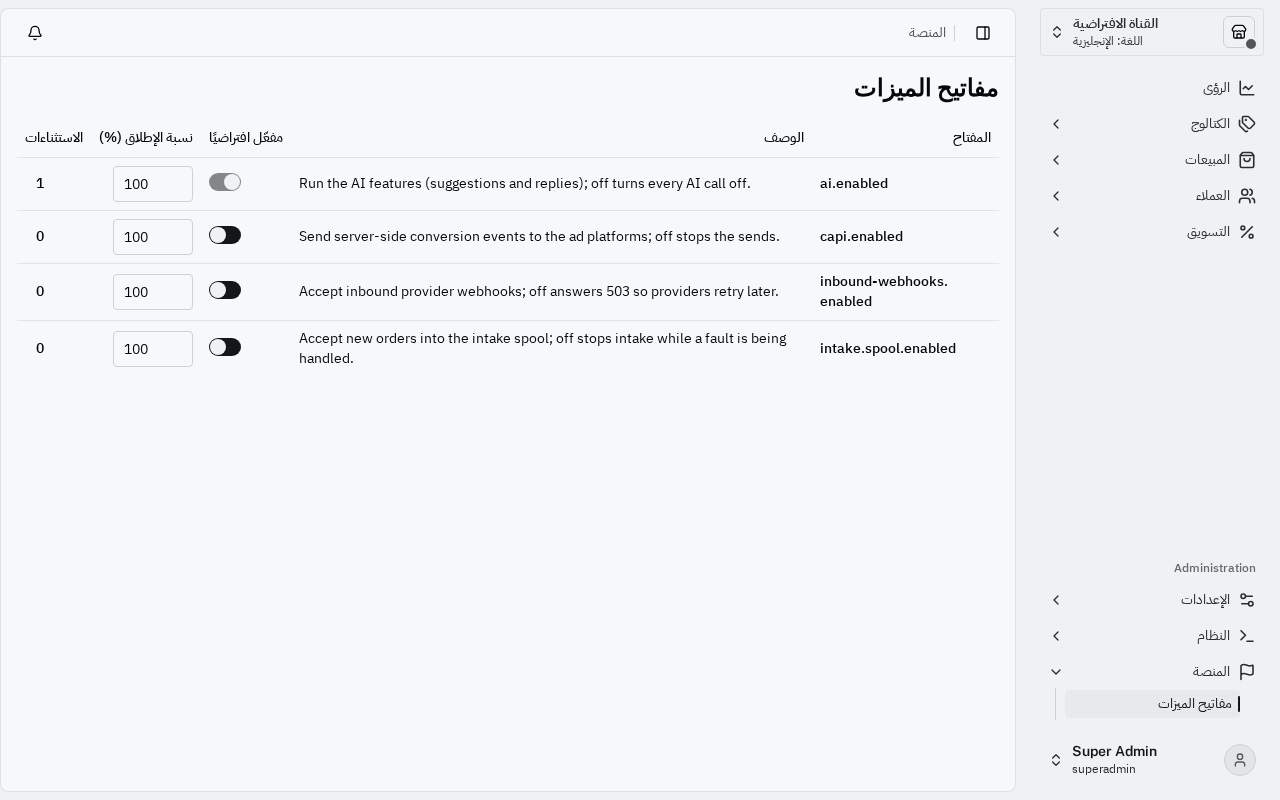
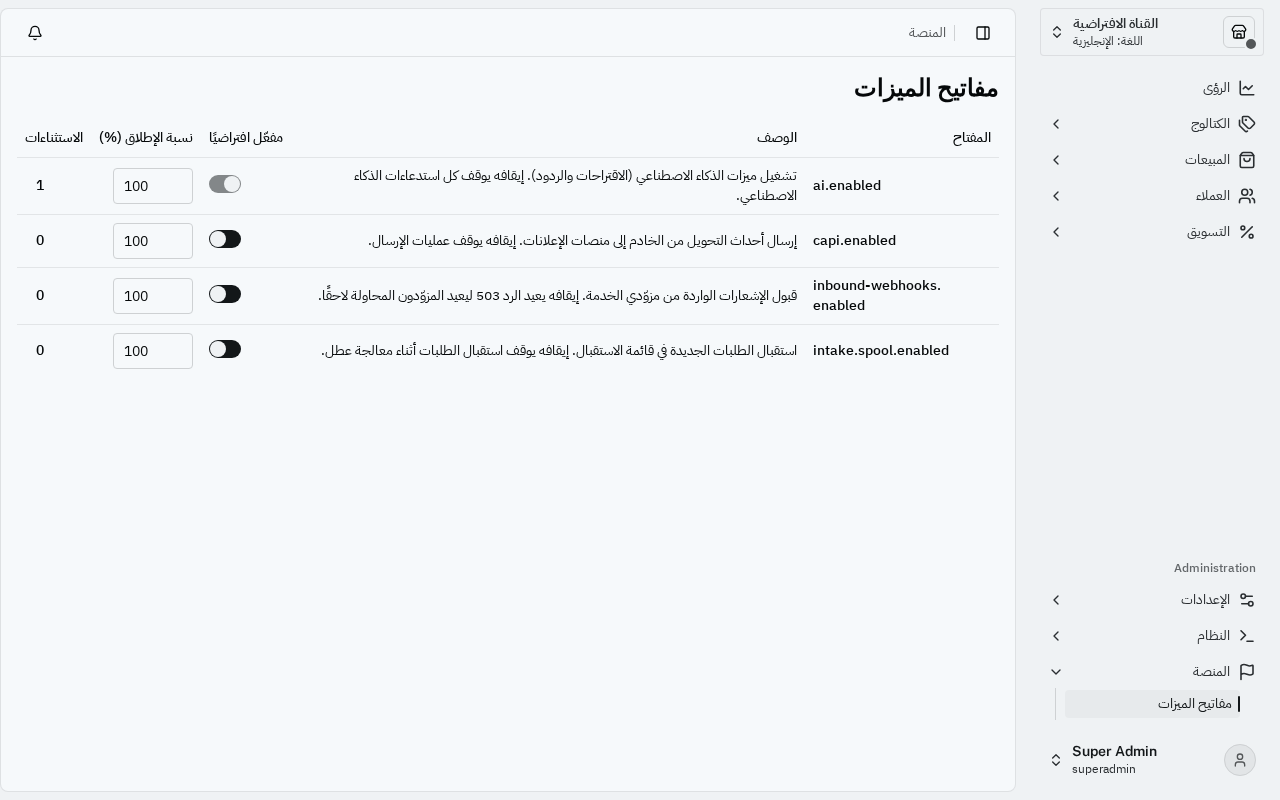
docs(evidence): regenerate P1.S6 with Arabic flag descriptions

diff --git a/docs/evidence/P1.S6/api/internal-guard.md b/docs/evidence/P1.S6/api/internal-guard.md
@@ -584,7 +584,7 @@ HTTP/1.1 200 OK
 cache-control: private, no-cache, no-store, max-age=0, must-revalidate
 content-type: text/html; charset=utf-8
 
-<!DOCTYPE html><html data-dpl-id="f8d7d93" lang="ar" dir="rtl"><head><meta charSet="utf-8"/><meta name="viewport" content="width=device-width, initial-scale=1"/><link rel="stylesheet" href="/_next/static/chunks/2o87kb2q9n4yc.css?dpl=f8d7d93" data-precedence="next"/><link rel="preload" as="script" fetchPriority="low" href="/_next/static/chunks/1pvie6fduep3q.js?dpl=f8d7d93"/><script src="/_next/static/chunks/3_xnpfkoee8gs.js?dpl=f8d7d93" async=""></script><script src="/_next/static/chunks/1ek1o9-2xh69l.js?dpl=f8d7d93" async=""></script><script src="/_next/static/chunks/turbopack-2u1d16houkiyo.js?dpl=f8d7d93" async=""></script><script src="/_next/static/chunks/0whvkrb958y89.js?dpl=f8d7d93" async=""></script><script src="/_next/static/chunks/3et6rqk0qh-ry.js?dpl=f8d7d93" async=""></script><meta name="next-size-adjust" content=""/><script src="/_next/static/chunks/0cz1d0mv5g_q7.js?dpl=f8d7d93" noModule=""></script></head><body><div hidden=""><!--$--><!--/$--></div><!--&--><!--&--><!--&--><!--&--><main class="stub-page"><!--$?--><template id="B:0"></template><!--/$--></main><!--$--><!--/$--><!--/&--><!--/&--><!--/&--><!--/&--><script>requestAnimationFrame(function(){$RT=performance.now()});</script><script src="/_next/static/chunks/1pvie6fduep3q.js?dpl=f8d7d93" id="_R_" async=""></script><script>(globalThis["TURBOPACK"] || (globalThis["TURBOPACK"] = [])).push({"otherChunks":["static/chunks/1pvie6fduep3q.js","static/chunks/3_xnpfkoee8gs.js","static/chunks/1ek1o9-2xh69l.js"],"runtimeModuleIds":[9220]});</script><script>(self.__next_f=self.__next_f||[]).push([0])</script><script>self.__next_f.push([1,"1:\"$Sreact.fragment\"\n2:\"/_next/static/chunks/0whvkrb958y89.js?dpl=f8d7d93\"\n3:I[95879,[\"$2\"],\"default\"]\n4:I[66344,[\"$2\"],\"default\"]\nb:\"$Sreact.suspense\"\nd:I[96527,[\"$2\"],\"OutletBoundary\"]\n10:\"ViewportBoundary\"\n11:I[96527,[\"$2\"],\"$10\"]\n13:\"MetadataBoundary\"\n14:I[96527,[\"$2\"],\"$13\"]\n17:I[1362,[\"$2\"],\"default\",1]\n:HL[\"/_next/static/chunks/2o87kb2q9n4yc.css?dpl=f8d7d93\",\"style\"]\n5:X\n7:X\nf:X\na:[[\"children\",{\"s\":\"__PAGE__\",\"h\":16546,\"d\":{\"r\":[\"$\",\"$1\",\"c\",{\"children\":[[\"$\",\"main\",null,{\"className\":\"stub-page\",\"children\":[\"$\",\"$b\",null,{\"fallback\":null,\"children\":\"$Lc\"}]}],[[\"$\",\"script\",\"script-0\",{\"src\":\"/_next/static/chunks/3et6rqk0qh-ry.js?dpl=f8d7d93\",\"async\":true,\"nonce\":\"$undefined\"}]],[\"$\",\"$Ld\",null,{\"children\":[\"$\",\"$b\",null,{\"name\":\"Next.MetadataOutlet\",\"children\":\"$@e\"}]}]]}],\"p\":false,\"v\":\"$f\"}}]]\n9:[[\"children\",{\"s\":{\"n\":\"locale\",\"t\":\"d\",\"k\":\"ar\",\"s\":[]},\"h\":16482,\"d\":{\"r\":[\"$\",\"$1\",\"c\",{\"children\":[null,[\"$\",\"$L3\",null,{\"parallelRouterKey\":\"children\",\"error\":\"$undefined\",\"errorStyles\":\"$undefined\",\"errorScripts\":\"$undefined\",\"template\":[\"$\",\"$L4\",null,{}],\"templateStyles\":\"$undefined\",\"templateScripts\":\"$undefined\",\"notFound\":\"$undefined\",\"forbidden\":\"$undefined\",\"unauthorized\":\"$undefined\"}]]}],\"p\":false,\"v\":\"$7\"},\"c\":\"$Qa\"}]]\n8:[[\"children\",{\"s\":{\"n\":\"storeId\",\"t\":\"d\",\"k\":\"<STORE_DEMO>\",\"s\":[]},\"h\":16482,\"d\":{\"r\":[\"$\",\"$1\",\"c\",{\"children\":[null,[\"$\",\"$L3\",null,{\"parallelRouterKey\":\"children\",\"error\":\"$undefined\",\"errorStyles\":\"$undefined\",\"errorScripts\":\"$undefined\",\"template\":[\"$\",\"$L4\",null,{}],\"templateStyles\":\"$undefined\",\"templateScripts\":\"$undefined\",\"notFound\":\"$undefined\",\"forbidden\":\"$undefined\",\"unauthorized\":\"$undefined\"}]]}],\"p\":false,\"v\":\"$7\"},\"c\":\"$Q9\"}]]\n6:[[\"children\",{\"s\":\"%5Ft\",\"h\":16482,\"d\":{\"r\":[\"$\",\"$1\",\"c\",{\"children\":[null,[\"$\",\"$L3\",null,{\"parallelRouterKey\":\"children\",\"error\":\"$undefined\",\"errorStyles\":\"$undefined\",\"errorScripts\":\"$undefined\",\"template\":[\"$\",\"$L4\",null,{}],\"templateStyles\":\"$undefined\",\"templateScripts\":\"$undefined\",\"notFound\":\"$undefined\",\"forbidden\":\"$undefined\",\"unauthorized\":\"$undefined\"}]]}],\"p\":false,\"v\":\"$7\"},\"c\":\"$Q8\"}]]\n16:X\n18:X\n19:X\n1c:R\n0:{\"P\":null,\"c\":[\"\",\"\"],\"q\":\"\",\"i\":false,\"t\":{\"t\":{\"s\":\"\",\"h\":16466,\"d\":{\"r\":[\"$\",\"$1\",\"c\",{\"children\":[[[\"$\",\"link\",\"0\",{\"rel\":\"stylesheet\",\"href\":\"/_next/static/chunks/2o87kb2q9n4yc.css?dpl=f8d7d93\",\"precedence\":\"next\",\"crossOrigin\":\"$undefined\",\"nonce\":\"$undefined\"}],[\"$\",\"script\",\"script-0\",{\"src\":\"/_next/static/chunks/0whvkrb958y89.js?dpl=f8d7d93\",\"async\":true,\"nonce\":\"$undefined\"}]],[\"$\",\"html\",null,{\"lang\":\"ar\",\"dir\":\"rtl\",\"children\":[\"$\",\"body\",null,{\"children\":[\"$\",\"$L3\",null,{\"parallelRouterKey\":\"children\",\"error\":\"$undefined\",\"errorStyles\":\"$undefined\",\"errorScripts\":\"$undefined\",\"template\":[\"$\",\"$L4\",null,{}],\"templateStyles\":\"$undefined\",\"templateScripts\":\"$undefined\",\"notFound\":[[\"$\",\"main\",null,{\"data-testid\":\"not-found\",\"className\":\"stub-page\",\"children\":[\"$\",\"div\",null,{\"children\":[[\"$\",\"h1\",\"ar\",{\"lang\":\"ar\",\"dir\":\"rtl\",\"children\":\"الصفحة غير موجودة\"}],[\"$\",\"h1\",\"fr\",{\"lang\":\"fr\",\"dir\":\"ltr\",\"children\":\"Page introuvable\"}],[\"$\",\"h1\",\"en\",{\"lang\":\"en\",\"dir\":\"ltr\",\"children\":\"Page not found\"}]]}]}],[]],\"forbidden\":\"$undefined\",\"unauthorized\":\"$undefined\"}]}]}]]}],\"p\":false,\"v\":\"$5\"},\"c\":\"$Q6\"},\"h\":{\"r\":[\"$\",\"$1\",\"h\",{\"children\":[null,[\"$\",\"$L11\",null,{\"children\":\"$L12\"}],[\"$\",\"$L14\",null,{\"children\":[[\"$\",\"div\",null,{\"hidden\":true,\"children\":[\"$\",\"$b\",null,{\"name\":\"Next.Metadata\",\"children\":\"$L15\"}]}],null]}],[\"$\",\"meta\",null,{\"name\":\"next-size-adjust\",\"content\":\"\"}]]}],\"p\":false,\"v\":\"$16\"}},\"m\":\"$undefined\",\"G\":[\"$17\",[[\"$\",\"link\",\"0\",{\"rel\":\"stylesheet\",\"href\":\"/_next/static/chunks/2o87kb2q9n4yc.css?dpl=f8d7d93\",\"precedence\":\"next\",\"crossOrigin\":\"$undefined\",\"nonce\":\"$undefined\"}]]],\"S\":true,\"r\":\"$18\",\"s\":\"$19\",\"a\":\"$@1a\",\"l\":\"$@1b\",\"p\":\"$1c\",\"d\":\"$undefined\"}\n7:C\n19:300\n12:[[\"$\",\"meta\",\"0\",{\"charSet\":\"utf-8\"}],[\"$\",\"meta\",\"1\",{\"name\":\"viewport\",\"content\":\"width=device-width, initial-scale=1\"}]]\ne:null\n15:[]\n19:C\n16:C\n18:C\nf:C\n5:C\n1d:\"/_next/static/chunks/3et6rqk0qh-ry.js?dpl=f8d7d93\"\n1e:\"StoreDocumentLang\"\n1f:I[73830,[\"$2\",\"$1d\"],\"$1e\"]\nc:[[\"$\",\"$L1f\",null,{\"locale\":\"ar\"}],\"$L20\"]\n1b:4038\n1a:4015\n"])</script><script>self.__next_f.push([1,"20:[\"$\",\"h1\",null,{\"data-testid\":\"store-name\",\"children\":\"Demo Store\"}]\n"])</script><script src="/_next/static/chunks/0cz1d0mv5g_q7.js?dpl=f8d7d93" noModule=""></script><div hidden id="S:0"><h1 data-testid="store-name">Demo Store</h1></div><script>$RB=[];$RV=function(a){$RT=performance.now();for(var b=0;b<a.length;b+=2){var c=a[b],e=a[b+1];null!==e.parentNode&&e.parentNode.removeChild(e);var f=c.parentNode;if(f){var g=c.previousSibling,h=0;do{if(c&&8===c.nodeType){var d=c.data;if("/$"===d||"/&"===d)if(0===h)break;else h--;else"$"!==d&&"$?"!==d&&"$~"!==d&&"$!"!==d&&"&"!==d||h++}d=c.nextSibling;f.removeChild(c);c=d}while(c);for(;e.firstChild;)f.insertBefore(e.firstChild,c);g.data="$";g._reactRetry&&requestAnimationFrame(g._reactRetry)}}a.length=0};
-$RC=function(a,b){if(b=document.getElementById(b))(a=document.getElementById(a))?(a.previousSibling.data="$~",$RB.push(a,b),2===$RB.length&&("number"!==typeof $RT?requestAnimationFrame($RV.bind(null,$RB)):(a=performance.now(),setTimeout($RV.bind(null,$RB),2300>a&&2E3<a?2300-a:$RT+300-a)))):b.parentNode.removeChild(b)};$RC("B:0","S:0")</script><script>self.__next_f.push([1,"1c:o1,#1c:o83c,2:\"$Sreact.fragment\"\n3:\"/_next/static/chunks/0whvkrb958y89.js?dpl=f8d7d93\"\n4:I[95879,[\"$3\"],\"default\"]\n5:I[66344,[\"$3\"],\"default\"]\nc:\"$Sreact.suspense\"\ne:I[96527,[\"$3\"],\"OutletBoundary\"]\n11:\"ViewportBoundary\"\n12:I[96527,[\"$3\"],\"$11\"]\n14:\"MetadataBoundary\"\n15:I[96527,[\"$3\"],\"$14\"]\n:HL[\"/_next/static/chunks/2o87kb2q9n4yc.css?dpl=f8d7d93\",\"style\"]\n1:X\n6:X\n8:X\n10:X\nb:[[\"children\",{\"s\":\"__PAGE__\",\"h\":16546,\"d\":{\"r\":[\"$\",\"$2\",\"c\",{\"children\":[[\"$\",\"main\",null,{\"className\":\"stub-page\",\"children\":[\"$\",\"$c\",null,{\"fallback\":null,\"children\":\"$Ld\"}]}],[[\"$\",\"script\",\"script-0\",{\"src\":\"/_next/static/chunks/3et6rqk0qh-ry.js?dpl=f8d7d93\",\"async\":true,\"nonce\":\"$undefined\"}]],[\"$\",\"$Le\",null,{\"children\":[\"$\",\"$c\",null,{\"name\":\"Next.MetadataOutlet\",\"children\":\"$@f\"}]}]]}],\"p\":false,\"v\":\"$10\"}}]]\na:[[\"children\",{\"s\":{\"n\":\"locale\",\"t\":\"d\",\"k\":\"ar\",\"s\":[]},\"h\":16482,\"d\":{\"r\":[\"$\",\"$2\",\"c\",{\"children\":[null,[\"$\",\"$L4\",null,{\"parallelRouterKey\":\"children\",\"error\":\"$undefined\",\"errorStyles\":\"$undefined\",\"errorScripts\":\"$undefined\",\"template\":[\"$\",\"$L5\",null,{}],\"templateStyles\":\"$undefined\",\"templateScripts\":\"$undefined\",\"notFound\":\"$undefined\",\"forbidden\":\"$undefined\",\"unauthorized\":\"$undefined\"}]]}],\"p\":false,\"v\":\"$8\"},\"c\":\"$Qb\"}]]\n9:[[\"children\",{\"s\":{\"n\":\"storeId\",\"t\":\"d\",\"k\":\"<STORE_DEMO>\",\"s\":[]},\"h\":16482,\"d\":{\"r\":[\"$\",\"$2\",\"c\",{\"children\":[null,[\"$\",\"$L4\",null,{\"parallelRouterKey\":\"children\",\"error\":\"$undefined\",\"errorStyles\":\"$undefined\",\"errorScripts\":\"$undefined\",\"template\":[\"$\",\"$L5\",null,{}],\"templateStyles\":\"$undefined\",\"templateScripts\":\"$undefined\",\"notFound\":\"$undefined\",\"forbidden\":\"$undefined\",\"unauthorized\":\"$undefined\"}]]}],\"p\":false,\"v\":\"$8\"},\"c\":\"$Qa\"}]]\n7:[[\"children\",{\"s\":\"%5Ft\",\"h\":16482,\"d\":{\"r\":[\"$\",\"$2\",\"c\",{\"children\":[null,[\"$\",\"$L4\",null,{\"parallelRouterKey\":\"children\",\"error\":\"$undefined\",\"errorStyles\":\"$undefined\",\"errorScripts\":\"$undefined\",\"template\":[\"$\",\"$L5\",null,{}],\"templateStyles\":\"$undefined\",\"templateScripts\":\"$undefined\",\"notFound\":\"$undefined\",\"forbidden\":\"$undefined\",\"unauthorized\":\"$undefined\"}]]}],\"p\":false,\"v\":\"$8\"},\"c\":\"$Q9\"}]]\n17:X\n18:X\n1c:o5b1,0:{\"q\":\"\",\"i\":false,\"S\":true,\"r\":\"$1\",\"t\":{\"t\":{\"s\":\"\",\"h\":16466,\"d\":{\"r\":[\"$\",\"$2\",\"c\",{\"children\":[[[\"$\",\"link\",\"0\",{\"rel\":\"stylesheet\",\"href\":\"/_next/static/chunks/2o87kb2q9n4yc.css?dpl=f8d7d93\",\"precedence\":\"next\",\"crossOrigin\":\"$undefined\",\"nonce\":\"$undefined\"}],[\"$\",\"script\",\"script-0\",{\"src\":\"/_next/static/chunks/0whvkrb958y89.js?dpl=f8d7d93\",\"async\":true,\"nonce\":\"$undefined\"}]],[\"$\",\"html\",null,{\"lang\":\"ar\",\"dir\":\"rtl\",\"children\":[\"$\",\"body\",null,{\"children\":[\"$\",\"$L4\",null,{\"parallelRouterKey\":\"children\",\"error\":\"$undefined\",\"errorStyles\":\"$undefined\",\"errorScripts\":\"$undefined\",\"template\":[\"$\",\"$L5\",null,{}],\"templateStyles\":\"$undefined\",\"templateScripts\":\"$undefined\",\"notFound\":[[\"$\",\"main\",null,{\"data-testid\":\"not-found\",\"className\":\"stub-page\",\"children\":[\"$\",\"div\",null,{\"children\":[[\"$\",\"h1\",\"ar\",{\"lang\":\"ar\",\"dir\":\"rtl\",\"children\":\"الصفحة غير موجودة\"}],[\"$\",\"h1\",\"fr\",{\"lang\":\"fr\",\"dir\":\"ltr\",\"children\":\"Page introuvable\"}],[\"$\",\"h1\",\"en\",{\"lang\":\"en\",\"dir\":\"ltr\",\"children\":\"Page not found\"}]]}]}],[]],\"forbidden\":\"$undefined\",\"unauthorized\":\"$undefined\"}]}]}]]}],\"p\":false,\"v\":\"$6\"},\"c\":\"$Q7\"},\"h\":{\"r\":[\"$\",\"$2\",\"h\",{\"children\":[null,[\"$\",\"$L12\",\"8rZKtgJjCGeVQmX8AMto-v\",{\"children\":\"$L13\"}],[\"$\",\"$L15\",\"8rZKtgJjCGeVQmX8AMto-m\",{\"children\":[[\"$\",\"div\",null,{\"hidden\":true,\"children\":[\"$\",\"$c\",null,{\"name\":\"Next.Metadata\",\"children\":\"$L16\"}]}],null]}]]}],\"p\":false,\"v\":\"$17\"}},\"s\":\"$18\",\"a\":\"$@19\",\"w\":\"$@1a\"}\n1c:o8a,8:C\n18:300\n13:[[\"$\",\"meta\",\"0\",{\"charSet\":\"utf-8\"}],[\"$\",\"meta\",\"1\",{\"name\":\"viewport\",\"content\":\"width=device-width, initial-scale=1\"}]]\n1c:od,f:null\n16:[]\n1c:o23,17:0\n10:0\n10:T7,storeId10:T6,locale1c:o9a,1b:\"/_next/static/chunks/3et6rqk0qh-ry.js?dpl=f8d7d93\"\n1c:\"StoreDocumentLang\"\n1d:I[73830,[\"$3\",\"$1b\"],\"$1c\"]\nd:[[\"$\",\"$L1d\",null,{\"locale\":\"ar\"}],\"$L1e\"]\n1c:o7,18:300\n1c:o48,1e:[\"$\",\"h1\",null,{\"data-testid\":\"store-name\",\"children\":\"Demo Store\"}]\n1c:o11,1a:false\n19:3716\n1c:o17,18:C\n17:C\n1:C\n10:C\n6:C\n1c:C\n"])</script></body></html>
+<!DOCTYPE html><html data-dpl-id="e28176b" lang="ar" dir="rtl"><head><meta charSet="utf-8"/><meta name="viewport" content="width=device-width, initial-scale=1"/><link rel="stylesheet" href="/_next/static/chunks/3uyl8xv4d9xya.css?dpl=e28176b" data-precedence="next"/><link rel="preload" as="script" fetchPriority="low" href="/_next/static/chunks/1pvie6fduep3q.js?dpl=e28176b"/><script src="/_next/static/chunks/3_xnpfkoee8gs.js?dpl=e28176b" async=""></script><script src="/_next/static/chunks/1ek1o9-2xh69l.js?dpl=e28176b" async=""></script><script src="/_next/static/chunks/turbopack-2u1d16houkiyo.js?dpl=e28176b" async=""></script><script src="/_next/static/chunks/0whvkrb958y89.js?dpl=e28176b" async=""></script><script src="/_next/static/chunks/3et6rqk0qh-ry.js?dpl=e28176b" async=""></script><meta name="next-size-adjust" content=""/><script src="/_next/static/chunks/0cz1d0mv5g_q7.js?dpl=e28176b" noModule=""></script></head><body><div hidden=""><!--$--><!--/$--></div><!--&--><!--&--><!--&--><!--&--><main class="stub-page"><!--$?--><template id="B:0"></template><!--/$--></main><!--$--><!--/$--><!--/&--><!--/&--><!--/&--><!--/&--><script>requestAnimationFrame(function(){$RT=performance.now()});</script><script src="/_next/static/chunks/1pvie6fduep3q.js?dpl=e28176b" id="_R_" async=""></script><script>(globalThis["TURBOPACK"] || (globalThis["TURBOPACK"] = [])).push({"otherChunks":["static/chunks/1pvie6fduep3q.js","static/chunks/3_xnpfkoee8gs.js","static/chunks/1ek1o9-2xh69l.js"],"runtimeModuleIds":[9220]});</script><script>(self.__next_f=self.__next_f||[]).push([0])</script><script>self.__next_f.push([1,"1:\"$Sreact.fragment\"\n2:\"/_next/static/chunks/0whvkrb958y89.js?dpl=e28176b\"\n3:I[95879,[\"$2\"],\"default\"]\n4:I[66344,[\"$2\"],\"default\"]\nb:\"$Sreact.suspense\"\nd:I[96527,[\"$2\"],\"OutletBoundary\"]\n10:\"ViewportBoundary\"\n11:I[96527,[\"$2\"],\"$10\"]\n13:\"MetadataBoundary\"\n14:I[96527,[\"$2\"],\"$13\"]\n17:I[1362,[\"$2\"],\"default\",1]\n:HL[\"/_next/static/chunks/3uyl8xv4d9xya.css?dpl=e28176b\",\"style\"]\n5:X\n7:X\nf:X\na:[[\"children\",{\"s\":\"__PAGE__\",\"h\":16546,\"d\":{\"r\":[\"$\",\"$1\",\"c\",{\"children\":[[\"$\",\"main\",null,{\"className\":\"stub-page\",\"children\":[\"$\",\"$b\",null,{\"fallback\":null,\"children\":\"$Lc\"}]}],[[\"$\",\"script\",\"script-0\",{\"src\":\"/_next/static/chunks/3et6rqk0qh-ry.js?dpl=e28176b\",\"async\":true,\"nonce\":\"$undefined\"}]],[\"$\",\"$Ld\",null,{\"children\":[\"$\",\"$b\",null,{\"name\":\"Next.MetadataOutlet\",\"children\":\"$@e\"}]}]]}],\"p\":false,\"v\":\"$f\"}}]]\n9:[[\"children\",{\"s\":{\"n\":\"locale\",\"t\":\"d\",\"k\":\"ar\",\"s\":[]},\"h\":16482,\"d\":{\"r\":[\"$\",\"$1\",\"c\",{\"children\":[null,[\"$\",\"$L3\",null,{\"parallelRouterKey\":\"children\",\"error\":\"$undefined\",\"errorStyles\":\"$undefined\",\"errorScripts\":\"$undefined\",\"template\":[\"$\",\"$L4\",null,{}],\"templateStyles\":\"$undefined\",\"templateScripts\":\"$undefined\",\"notFound\":\"$undefined\",\"forbidden\":\"$undefined\",\"unauthorized\":\"$undefined\"}]]}],\"p\":false,\"v\":\"$7\"},\"c\":\"$Qa\"}]]\n8:[[\"children\",{\"s\":{\"n\":\"storeId\",\"t\":\"d\",\"k\":\"<STORE_DEMO>\",\"s\":[]},\"h\":16482,\"d\":{\"r\":[\"$\",\"$1\",\"c\",{\"children\":[null,[\"$\",\"$L3\",null,{\"parallelRouterKey\":\"children\",\"error\":\"$undefined\",\"errorStyles\":\"$undefined\",\"errorScripts\":\"$undefined\",\"template\":[\"$\",\"$L4\",null,{}],\"templateStyles\":\"$undefined\",\"templateScripts\":\"$undefined\",\"notFound\":\"$undefined\",\"forbidden\":\"$undefined\",\"unauthorized\":\"$undefined\"}]]}],\"p\":false,\"v\":\"$7\"},\"c\":\"$Q9\"}]]\n6:[[\"children\",{\"s\":\"%5Ft\",\"h\":16482,\"d\":{\"r\":[\"$\",\"$1\",\"c\",{\"children\":[null,[\"$\",\"$L3\",null,{\"parallelRouterKey\":\"children\",\"error\":\"$undefined\",\"errorStyles\":\"$undefined\",\"errorScripts\":\"$undefined\",\"template\":[\"$\",\"$L4\",null,{}],\"templateStyles\":\"$undefined\",\"templateScripts\":\"$undefined\",\"notFound\":\"$undefined\",\"forbidden\":\"$undefined\",\"unauthorized\":\"$undefined\"}]]}],\"p\":false,\"v\":\"$7\"},\"c\":\"$Q8\"}]]\n16:X\n18:X\n19:X\n1c:R\n0:{\"P\":null,\"c\":[\"\",\"\"],\"q\":\"\",\"i\":false,\"t\":{\"t\":{\"s\":\"\",\"h\":16466,\"d\":{\"r\":[\"$\",\"$1\",\"c\",{\"children\":[[[\"$\",\"link\",\"0\",{\"rel\":\"stylesheet\",\"href\":\"/_next/static/chunks/3uyl8xv4d9xya.css?dpl=e28176b\",\"precedence\":\"next\",\"crossOrigin\":\"$undefined\",\"nonce\":\"$undefined\"}],[\"$\",\"script\",\"script-0\",{\"src\":\"/_next/static/chunks/0whvkrb958y89.js?dpl=e28176b\",\"async\":true,\"nonce\":\"$undefined\"}]],[\"$\",\"html\",null,{\"lang\":\"ar\",\"dir\":\"rtl\",\"children\":[\"$\",\"body\",null,{\"children\":[\"$\",\"$L3\",null,{\"parallelRouterKey\":\"children\",\"error\":\"$undefined\",\"errorStyles\":\"$undefined\",\"errorScripts\":\"$undefined\",\"template\":[\"$\",\"$L4\",null,{}],\"templateStyles\":\"$undefined\",\"templateScripts\":\"$undefined\",\"notFound\":[[\"$\",\"main\",null,{\"data-testid\":\"not-found\",\"className\":\"stub-page\",\"children\":[\"$\",\"div\",null,{\"children\":[[\"$\",\"h1\",\"ar\",{\"lang\":\"ar\",\"dir\":\"rtl\",\"children\":\"الصفحة غير موجودة\"}],[\"$\",\"h1\",\"fr\",{\"lang\":\"fr\",\"dir\":\"ltr\",\"children\":\"Page introuvable\"}],[\"$\",\"h1\",\"en\",{\"lang\":\"en\",\"dir\":\"ltr\",\"children\":\"Page not found\"}]]}]}],[]],\"forbidden\":\"$undefined\",\"unauthorized\":\"$undefined\"}]}]}]]}],\"p\":false,\"v\":\"$5\"},\"c\":\"$Q6\"},\"h\":{\"r\":[\"$\",\"$1\",\"h\",{\"children\":[null,[\"$\",\"$L11\",null,{\"children\":\"$L12\"}],[\"$\",\"$L14\",null,{\"children\":[[\"$\",\"div\",null,{\"hidden\":true,\"children\":[\"$\",\"$b\",null,{\"name\":\"Next.Metadata\",\"children\":\"$L15\"}]}],null]}],[\"$\",\"meta\",null,{\"name\":\"next-size-adjust\",\"content\":\"\"}]]}],\"p\":false,\"v\":\"$16\"}},\"m\":\"$undefined\",\"G\":[\"$17\",[[\"$\",\"link\",\"0\",{\"rel\":\"stylesheet\",\"href\":\"/_next/static/chunks/3uyl8xv4d9xya.css?dpl=e28176b\",\"precedence\":\"next\",\"crossOrigin\":\"$undefined\",\"nonce\":\"$undefined\"}]]],\"S\":true,\"r\":\"$18\",\"s\":\"$19\",\"a\":\"$@1a\",\"l\":\"$@1b\",\"p\":\"$1c\",\"d\":\"$undefined\"}\n7:C\n19:300\n12:[[\"$\",\"meta\",\"0\",{\"charSet\":\"utf-8\"}],[\"$\",\"meta\",\"1\",{\"name\":\"viewport\",\"content\":\"width=device-width, initial-scale=1\"}]]\ne:null\n15:[]\n19:C\n16:C\n18:C\nf:C\n5:C\n1d:\"/_next/static/chunks/3et6rqk0qh-ry.js?dpl=e28176b\"\n1e:\"StoreDocumentLang\"\n1f:I[73830,[\"$2\",\"$1d\"],\"$1e\"]\nc:[[\"$\",\"$L1f\",null,{\"locale\":\"ar\"}],\"$L20\"]\n1b:4038\n1a:4015\n"])</script><script>self.__next_f.push([1,"20:[\"$\",\"h1\",null,{\"data-testid\":\"store-name\",\"children\":\"Demo Store\"}]\n"])</script><script src="/_next/static/chunks/0cz1d0mv5g_q7.js?dpl=e28176b" noModule=""></script><div hidden id="S:0"><h1 data-testid="store-name">Demo Store</h1></div><script>$RB=[];$RV=function(a){$RT=performance.now();for(var b=0;b<a.length;b+=2){var c=a[b],e=a[b+1];null!==e.parentNode&&e.parentNode.removeChild(e);var f=c.parentNode;if(f){var g=c.previousSibling,h=0;do{if(c&&8===c.nodeType){var d=c.data;if("/$"===d||"/&"===d)if(0===h)break;else h--;else"$"!==d&&"$?"!==d&&"$~"!==d&&"$!"!==d&&"&"!==d||h++}d=c.nextSibling;f.removeChild(c);c=d}while(c);for(;e.firstChild;)f.insertBefore(e.firstChild,c);g.data="$";g._reactRetry&&requestAnimationFrame(g._reactRetry)}}a.length=0};
+$RC=function(a,b){if(b=document.getElementById(b))(a=document.getElementById(a))?(a.previousSibling.data="$~",$RB.push(a,b),2===$RB.length&&("number"!==typeof $RT?requestAnimationFrame($RV.bind(null,$RB)):(a=performance.now(),setTimeout($RV.bind(null,$RB),2300>a&&2E3<a?2300-a:$RT+300-a)))):b.parentNode.removeChild(b)};$RC("B:0","S:0")</script><script>self.__next_f.push([1,"1c:o1,#1c:o83c,2:\"$Sreact.fragment\"\n3:\"/_next/static/chunks/0whvkrb958y89.js?dpl=e28176b\"\n4:I[95879,[\"$3\"],\"default\"]\n5:I[66344,[\"$3\"],\"default\"]\nc:\"$Sreact.suspense\"\ne:I[96527,[\"$3\"],\"OutletBoundary\"]\n11:\"ViewportBoundary\"\n12:I[96527,[\"$3\"],\"$11\"]\n14:\"MetadataBoundary\"\n15:I[96527,[\"$3\"],\"$14\"]\n:HL[\"/_next/static/chunks/3uyl8xv4d9xya.css?dpl=e28176b\",\"style\"]\n1:X\n6:X\n8:X\n10:X\nb:[[\"children\",{\"s\":\"__PAGE__\",\"h\":16546,\"d\":{\"r\":[\"$\",\"$2\",\"c\",{\"children\":[[\"$\",\"main\",null,{\"className\":\"stub-page\",\"children\":[\"$\",\"$c\",null,{\"fallback\":null,\"children\":\"$Ld\"}]}],[[\"$\",\"script\",\"script-0\",{\"src\":\"/_next/static/chunks/3et6rqk0qh-ry.js?dpl=e28176b\",\"async\":true,\"nonce\":\"$undefined\"}]],[\"$\",\"$Le\",null,{\"children\":[\"$\",\"$c\",null,{\"name\":\"Next.MetadataOutlet\",\"children\":\"$@f\"}]}]]}],\"p\":false,\"v\":\"$10\"}}]]\na:[[\"children\",{\"s\":{\"n\":\"locale\",\"t\":\"d\",\"k\":\"ar\",\"s\":[]},\"h\":16482,\"d\":{\"r\":[\"$\",\"$2\",\"c\",{\"children\":[null,[\"$\",\"$L4\",null,{\"parallelRouterKey\":\"children\",\"error\":\"$undefined\",\"errorStyles\":\"$undefined\",\"errorScripts\":\"$undefined\",\"template\":[\"$\",\"$L5\",null,{}],\"templateStyles\":\"$undefined\",\"templateScripts\":\"$undefined\",\"notFound\":\"$undefined\",\"forbidden\":\"$undefined\",\"unauthorized\":\"$undefined\"}]]}],\"p\":false,\"v\":\"$8\"},\"c\":\"$Qb\"}]]\n9:[[\"children\",{\"s\":{\"n\":\"storeId\",\"t\":\"d\",\"k\":\"<STORE_DEMO>\",\"s\":[]},\"h\":16482,\"d\":{\"r\":[\"$\",\"$2\",\"c\",{\"children\":[null,[\"$\",\"$L4\",null,{\"parallelRouterKey\":\"children\",\"error\":\"$undefined\",\"errorStyles\":\"$undefined\",\"errorScripts\":\"$undefined\",\"template\":[\"$\",\"$L5\",null,{}],\"templateStyles\":\"$undefined\",\"templateScripts\":\"$undefined\",\"notFound\":\"$undefined\",\"forbidden\":\"$undefined\",\"unauthorized\":\"$undefined\"}]]}],\"p\":false,\"v\":\"$8\"},\"c\":\"$Qa\"}]]\n7:[[\"children\",{\"s\":\"%5Ft\",\"h\":16482,\"d\":{\"r\":[\"$\",\"$2\",\"c\",{\"children\":[null,[\"$\",\"$L4\",null,{\"parallelRouterKey\":\"children\",\"error\":\"$undefined\",\"errorStyles\":\"$undefined\",\"errorScripts\":\"$undefined\",\"template\":[\"$\",\"$L5\",null,{}],\"templateStyles\":\"$undefined\",\"templateScripts\":\"$undefined\",\"notFound\":\"$undefined\",\"forbidden\":\"$undefined\",\"unauthorized\":\"$undefined\"}]]}],\"p\":false,\"v\":\"$8\"},\"c\":\"$Q9\"}]]\n17:X\n18:X\n1c:o5b1,0:{\"q\":\"\",\"i\":false,\"S\":true,\"r\":\"$1\",\"t\":{\"t\":{\"s\":\"\",\"h\":16466,\"d\":{\"r\":[\"$\",\"$2\",\"c\",{\"children\":[[[\"$\",\"link\",\"0\",{\"rel\":\"stylesheet\",\"href\":\"/_next/static/chunks/3uyl8xv4d9xya.css?dpl=e28176b\",\"precedence\":\"next\",\"crossOrigin\":\"$undefined\",\"nonce\":\"$undefined\"}],[\"$\",\"script\",\"script-0\",{\"src\":\"/_next/static/chunks/0whvkrb958y89.js?dpl=e28176b\",\"async\":true,\"nonce\":\"$undefined\"}]],[\"$\",\"html\",null,{\"lang\":\"ar\",\"dir\":\"rtl\",\"children\":[\"$\",\"body\",null,{\"children\":[\"$\",\"$L4\",null,{\"parallelRouterKey\":\"children\",\"error\":\"$undefined\",\"errorStyles\":\"$undefined\",\"errorScripts\":\"$undefined\",\"template\":[\"$\",\"$L5\",null,{}],\"templateStyles\":\"$undefined\",\"templateScripts\":\"$undefined\",\"notFound\":[[\"$\",\"main\",null,{\"data-testid\":\"not-found\",\"className\":\"stub-page\",\"children\":[\"$\",\"div\",null,{\"children\":[[\"$\",\"h1\",\"ar\",{\"lang\":\"ar\",\"dir\":\"rtl\",\"children\":\"الصفحة غير موجودة\"}],[\"$\",\"h1\",\"fr\",{\"lang\":\"fr\",\"dir\":\"ltr\",\"children\":\"Page introuvable\"}],[\"$\",\"h1\",\"en\",{\"lang\":\"en\",\"dir\":\"ltr\",\"children\":\"Page not found\"}]]}]}],[]],\"forbidden\":\"$undefined\",\"unauthorized\":\"$undefined\"}]}]}]]}],\"p\":false,\"v\":\"$6\"},\"c\":\"$Q7\"},\"h\":{\"r\":[\"$\",\"$2\",\"h\",{\"children\":[null,[\"$\",\"$L12\",\"NesvwA9sOH_3RegcypDi4v\",{\"children\":\"$L13\"}],[\"$\",\"$L15\",\"NesvwA9sOH_3RegcypDi4m\",{\"children\":[[\"$\",\"div\",null,{\"hidden\":true,\"children\":[\"$\",\"$c\",null,{\"name\":\"Next.Metadata\",\"children\":\"$L16\"}]}],null]}]]}],\"p\":false,\"v\":\"$17\"}},\"s\":\"$18\",\"a\":\"$@19\",\"w\":\"$@1a\"}\n1c:o8a,8:C\n18:300\n13:[[\"$\",\"meta\",\"0\",{\"charSet\":\"utf-8\"}],[\"$\",\"meta\",\"1\",{\"name\":\"viewport\",\"content\":\"width=device-width, initial-scale=1\"}]]\n1c:od,f:null\n16:[]\n1c:o23,17:0\n10:0\n10:T7,storeId10:T6,locale1c:o9a,1b:\"/_next/static/chunks/3et6rqk0qh-ry.js?dpl=e28176b\"\n1c:\"StoreDocumentLang\"\n1d:I[73830,[\"$3\",\"$1b\"],\"$1c\"]\nd:[[\"$\",\"$L1d\",null,{\"locale\":\"ar\"}],\"$L1e\"]\n1c:o7,18:300\n1c:o48,1e:[\"$\",\"h1\",null,{\"data-testid\":\"store-name\",\"children\":\"Demo Store\"}]\n1c:o11,1a:false\n19:3716\n1c:o17,18:C\n17:C\n1:C\n10:C\n6:C\n1c:C\n"])</script></body></html>
 ```
 

diff --git a/docs/evidence/P1.S6/api/activity-log.md b/docs/evidence/P1.S6/api/activity-log.md
@@ -103,57 +103,57 @@ content-type: application/json; charset=utf-8
         {
           "action": "rbac.role.created",
           "summary": "Role Evidence role created",
-          "createdAt": "2026-11-12T13:28:25.410Z"
+          "createdAt": "2026-11-12T21:01:48.283Z"
         },
         {
           "action": "rbac.member-access.changed",
           "summary": "Member access changed",
-          "createdAt": "2026-11-12T13:27:05.137Z"
+          "createdAt": "2026-11-12T21:00:54.613Z"
         },
         {
           "action": "rbac.role.created",
           "summary": "Role Demo first store catalog created",
-          "createdAt": "2026-11-12T13:27:04.836Z"
+          "createdAt": "2026-11-12T21:00:54.320Z"
         },
         {
           "action": "rbac.member-access.changed",
           "summary": "Member access changed",
-          "createdAt": "2026-11-12T13:27:04.807Z"
+          "createdAt": "2026-11-12T21:00:54.296Z"
         },
         {
           "action": "rbac.role.created",
           "summary": "Role Demo settings viewer created",
-          "createdAt": "2026-11-12T13:27:04.507Z"
+          "createdAt": "2026-11-12T21:00:54.028Z"
         },
         {
           "action": "rbac.member-access.changed",
           "summary": "Member access changed",
-          "createdAt": "2026-11-12T13:27:04.478Z"
+          "createdAt": "2026-11-12T21:00:53.988Z"
         },
         {
           "action": "rbac.role.created",
           "summary": "Role Demo no view created",
-          "createdAt": "2026-11-12T13:27:04.185Z"
+          "createdAt": "2026-11-12T21:00:53.723Z"
         },
         {
           "action": "rbac.member-access.changed",
           "summary": "Member access changed",
-          "createdAt": "2026-11-12T13:27:04.152Z"
+          "createdAt": "2026-11-12T21:00:53.698Z"
         },
         {
           "action": "rbac.role.created",
           "summary": "Role Demo orders clerk created",
-          "createdAt": "2026-11-12T13:27:03.867Z"
+          "createdAt": "2026-11-12T21:00:53.429Z"
         },
         {
           "action": "rbac.member-access.changed",
           "summary": "Member access changed",
-          "createdAt": "2026-11-12T13:27:03.615Z"
+          "createdAt": "2026-11-12T21:00:53.404Z"
         },
         {
           "action": "rbac.role.created",
           "summary": "Role Demo viewer created",
-          "createdAt": "2026-11-12T13:27:03.316Z"
+          "createdAt": "2026-11-12T21:00:53.122Z"
         }
       ],
       "nextCursor": null

diff --git a/docs/evidence/P1.S6/api/jobs.md b/docs/evidence/P1.S6/api/jobs.md
@@ -50,7 +50,7 @@ content-type: application/json; charset=utf-8
         },
         {
           "id": "outbox-sweeper",
-          "lastSuccessAgeSeconds": 14
+          "lastSuccessAgeSeconds": 37
         },
         {
           "id": "partition-maintenance",
@@ -203,11 +203,11 @@ content-type: application/json; charset=utf-8
         },
         {
           "id": "job-reconciler",
-          "lastSuccessAgeSeconds": 2
+          "lastSuccessAgeSeconds": 1
         },
         {
           "id": "outbox-sweeper",
-          "lastSuccessAgeSeconds": 2
+          "lastSuccessAgeSeconds": 1
         },
         {
           "id": "partition-maintenance",

diff --git a/docs/evidence/P1.S6/api/secrets.md b/docs/evidence/P1.S6/api/secrets.md
@@ -32,7 +32,7 @@ content-type: application/json; charset=utf-8
       "provider": "demo-webhook",
       "ref": "signing",
       "last4": "0002",
-      "updatedAt": "2026-11-12T13:28:08.589Z"
+      "updatedAt": "2026-11-12T21:01:33.654Z"
     }
   }
 }
@@ -123,7 +123,7 @@ content-type: application/json; charset=utf-8
       "provider": "demo-webhook",
       "ref": "signing",
       "last4": "0001",
-      "updatedAt": "2026-11-12T13:28:09.370Z"
+      "updatedAt": "2026-11-12T21:01:34.330Z"
     }
   }
 }

diff --git a/docs/evidence/P1.S6/README.md b/docs/evidence/P1.S6/README.md
@@ -2,7 +2,7 @@
 
 Transcripts and screenshots from a live stack (CLAUDE.md §3a.14), produced by `scripts/evidence/P1.S6.sh`. Data is synthetic. Image
 built from a tree with no uncommitted change outside the evidence folders and browser tests, last image-relevant commit
-`f8d7d93c77efa2895eb14f7c772c6944fab6fba9`. Compose project `cod-evidence`, `PLATFORM_DEMO_HANDLERS=true`.
+`e28176bc3aeca69c64e31f28f533eb785c071067`. Compose project `cod-evidence`, `PLATFORM_DEMO_HANDLERS=true`.
 
 ## API transcripts
 

diff --git a/docs/evidence/P1.S6/api/webhook-gateway.md b/docs/evidence/P1.S6/api/webhook-gateway.md
@@ -32,7 +32,7 @@ content-type: application/json; charset=utf-8
       "provider": "demo-webhook",
       "ref": "signing",
       "last4": "0001",
-      "updatedAt": "2026-11-12T13:27:20.316Z"
+      "updatedAt": "2026-11-12T21:01:01.909Z"
     }
   }
 }
